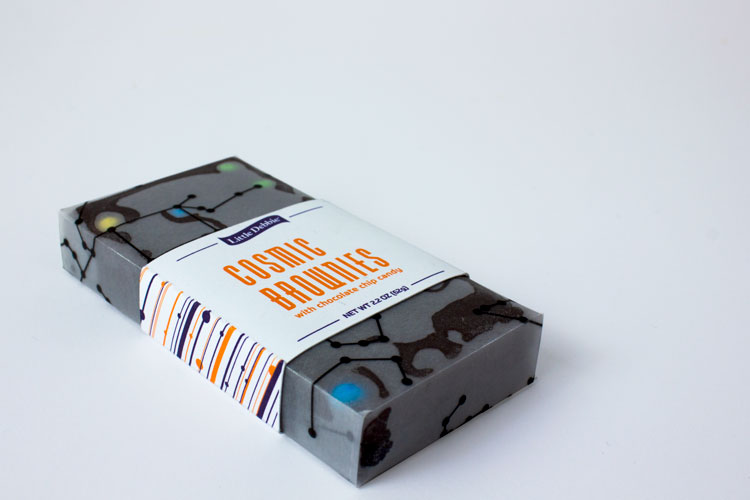
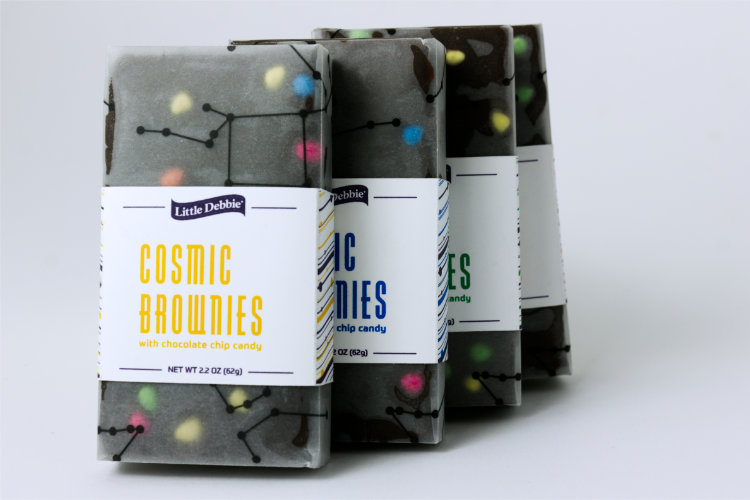
1/13 update
Added Cosmic Brownies back onto the site

diff --git a/cosmicbrownies.html b/cosmicbrownies.html
@@ -35,7 +35,7 @@
         
         <!--element: nav-->
         <header class="row" id="nav"></header>
-        
+
         <!--image: cover-->
         <div class="row">
             <div class="full column">
@@ -47,7 +47,7 @@
         <div class="row">
             <div class="projectname full column">
                 <h2>Cosmic Brownies</h2>
-                <small>A packaging redesign of Cosmic Brownies created for a class project. This concept utilizes the bright colors of the chocolate chip candies to create a space-inspired design for the existing product line.</small>
+                <small>A space-centric packaging concept for Little Debbie's Cosmic Brownies.</small>
             </div>
         </div>
         
@@ -57,7 +57,7 @@
                 <h3>Brief</h3>
             </div>
             <div class="sectiontext column">
-                <p>Redesign the packaging for an existing product that is available in a convenience or grocery store.</p>
+                <p>Redesign the packaging of an existing product that is available in a convenience or grocery store.</p>
             </div>
         </div>
         <div class="row">
@@ -65,7 +65,7 @@
                 <h3>Concept</h3>
             </div>
             <div class="sectiontext column">
-                <p>Update the design of the individually wrapped product to increase product recognition and draw in new consumers of all ages.</p>
+                <p>Reimagine Cosmic Brownies using clean and colorful imagery reminiscent of the cosmos as a way to evoke curiosity and excitement over a classic product line.</p>
             </div>
         </div>
         
@@ -76,6 +76,64 @@
             </div>
             <div class="half column">
                 <img src="images/brownies-img3.jpg">
+            </div>
+        </div>
+        
+        <!--text: ideation/development-->
+        <div class="row">
+            <div class="sectiontitle column">
+                <h3>Ideation</h3>
+            </div>
+            <div class="sectiontext column">
+                <p>Both bulk and individual packaging ideas were considered for the product in the beginning before eventually focusing in on an individually packaged item. Individually packaged items are a low commitment entry point for those who may be curious about the product, but who don't want to buy the typical bulk package available in grocery stores.</p>
+            </div>
+        </div>
+        <div class="row">
+            <div class="sectiontitle column">
+                <h3>Development</h3>
+            </div>
+            <div class="sectiontext column">
+                <p>Upon determining the packaging size, I further refined the visual styling of the packaging and began prototyping my designs. Initial designs featured the product label over the base packaging, but for the sake of maintaining readability needed additional components.</p>
+            </div>
+        </div>
+
+        <!--image: process sketches and ideations-->
+        <div class="row">
+            <div class="half column">
+                <img src="images/brownies-process1.jpg">
+            </div>
+            <div class="half column">
+                <img src="images/brownies-process2.jpg">
+            </div>
+        </div>
+        
+        <!--text: final design overview-->
+        <div class="row">
+            <div class="sectiontitle column">
+                <h3>Final Packaging</h3>
+            </div>
+            <div class="sectiontext column">
+                <h4>Components</h4>
+                <p>The final packaging design that would utilize vellum for the base packaging, and a paper sash over top. This would allow the brownie and colorful sprinkles to contribute to the design while maintaining readability.</p>
+                <h4>Wrapper</h4>
+                <p>To match the 'cosmic' name of the product, I developed a concept design that aimed to relate the cosmos and the colorful chocolate chips from the brownie. The primary package would feature only a constellation pattern based on the view from the northern hemisphere. </p>
+                <h4>Product Label</h4>
+                <p>Surrounding the wrapper would be a sash that features a purple and accent color of either blue, green, orange, or yellow to reference the various chocolate chip colors. This part of the design would provide the consumer information and provide extra protection again wear and tear.</p>
+            </div>
+        </div>
+        
+        <!--image: final design-->
+        <div class="row">
+            <div class="half column">
+                <img src="images/brownies-img5.jpg">
+            </div>
+            <div class="half column">
+                <img src="images/brownies-img6.jpg">
+            </div>
+        </div>
+        <div class="row">
+            <div class="full column">
+                <img src="images/brownies-img7.jpg">
             </div>
         </div>
         

diff --git a/index.html b/index.html
@@ -50,19 +50,20 @@
                 </div>
             </div>
             
-            <!--mcsweeney article-->
+            <!--citydog-->
             <div class="half column">
                 <div class="imgcontain">
-                    <a href="article.html">
-                        <img src="images/mcsweeney-thumb.jpg">
-                        <div class="overlaytext">McSweeney Article</div>
+                    <a href="citydog.html">
+                        <img src="images/citydog-thumb.jpg">
+                        <div class="overlaytext">Citydog</div>
                         <div class="overlay"></div>
                     </a>
                 </div>
             </div>
+            
         </div>
         
-        <!--bottom row-->
+        <!--mid row-->
         <div class="row">
             
             <!--square-->
@@ -76,16 +77,33 @@
                 </div>
             </div>
             
-            <!--citydog-->
+            <!--mcsweeney article-->
             <div class="half column">
                 <div class="imgcontain">
-                    <a href="citydog.html">
-                        <img src="images/citydog-thumb.jpg">
-                        <div class="overlaytext">Citydog</div>
+                    <a href="article.html">
+                        <img src="images/mcsweeney-thumb.jpg">
+                        <div class="overlaytext">McSweeney Article</div>
                         <div class="overlay"></div>
-            </a>
+                    </a>
                 </div>
             </div>
+            
+        </div>
+        
+        <!--bot row-->
+        <div class="row">
+
+            <!--brownies-->
+            <div class="half column">
+                <div class="imgcontain">
+                    <a href="cosmicbrownies.html">
+                        <img src="images/brownies-thumb.jpg">
+                        <div class="overlaytext">Cosmic Brownies</div>
+                        <div class="overlay"></div>
+                    </a>
+                </div>
+            </div>
+            
         </div>
         
         <!--element: footer-->
